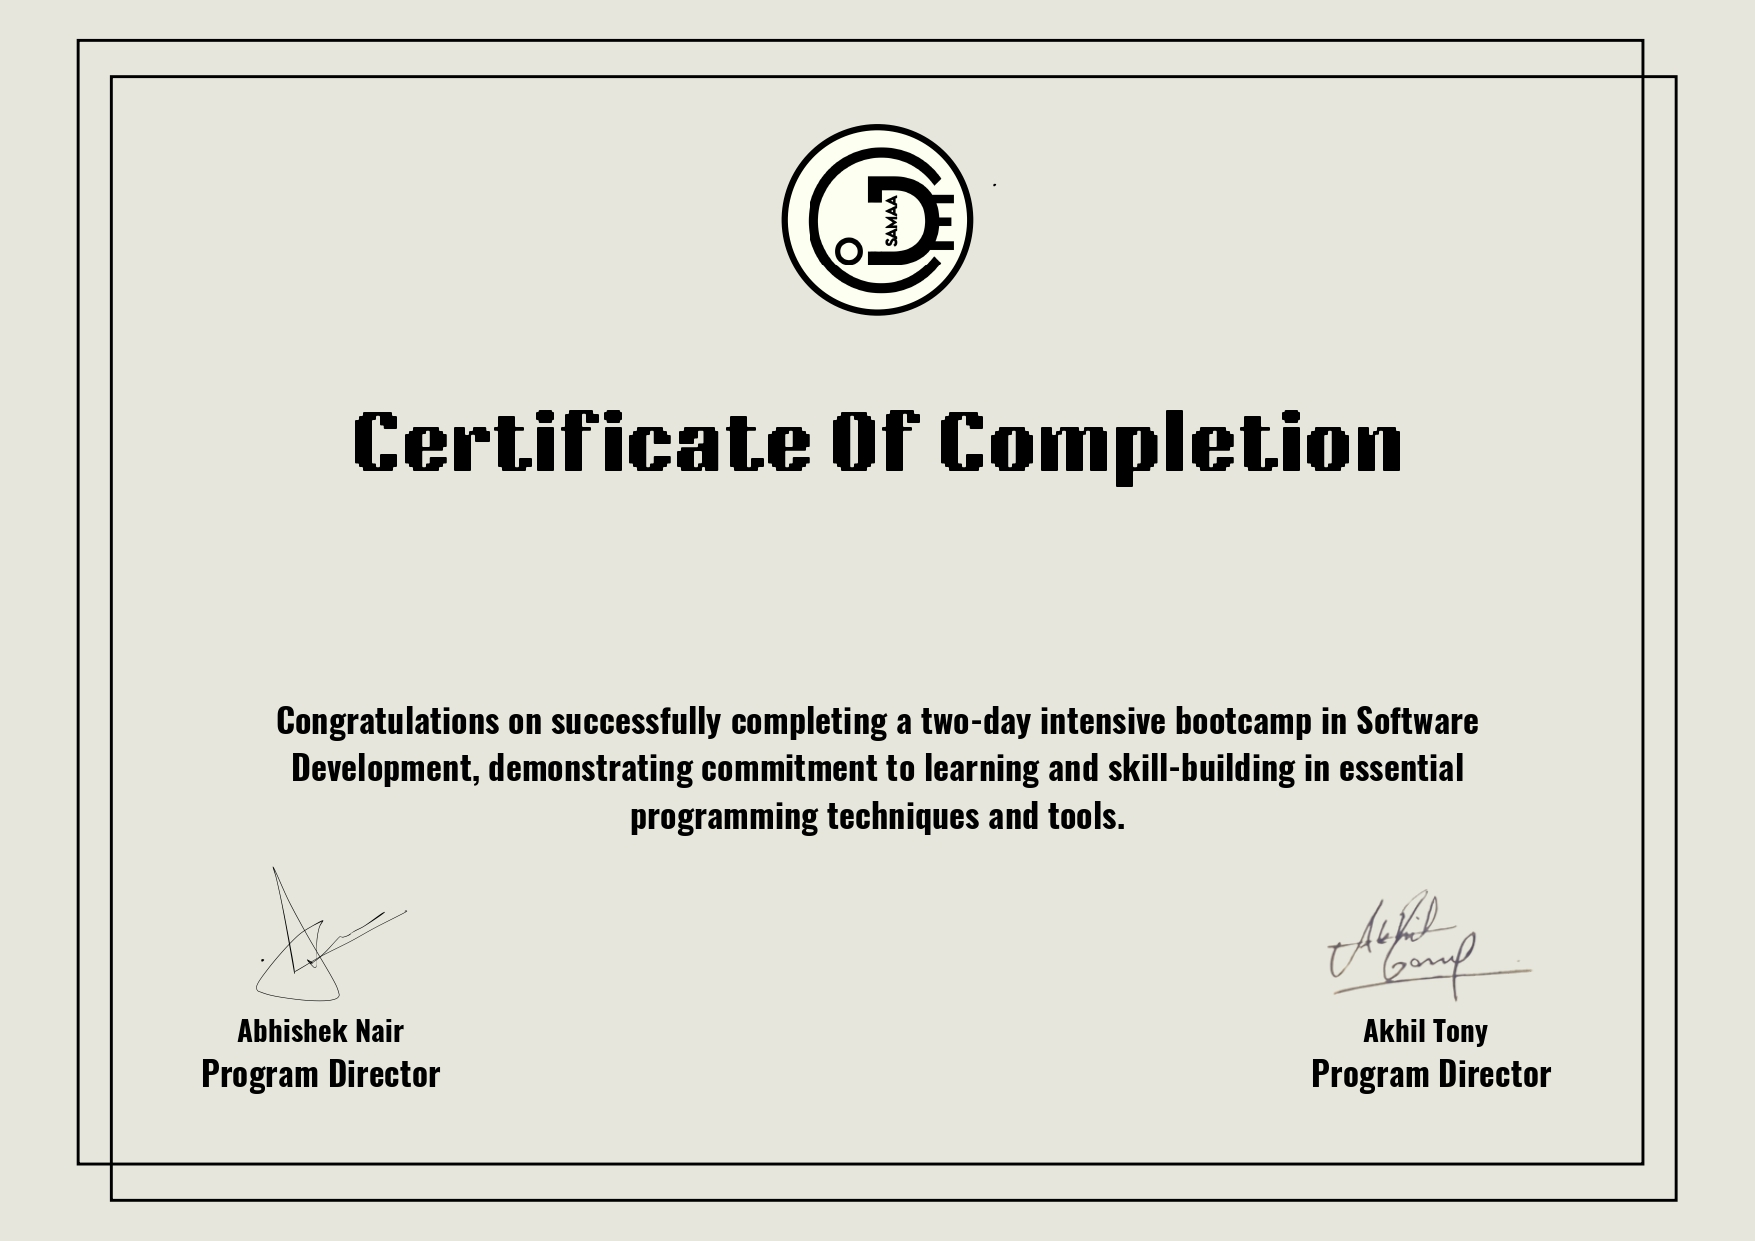
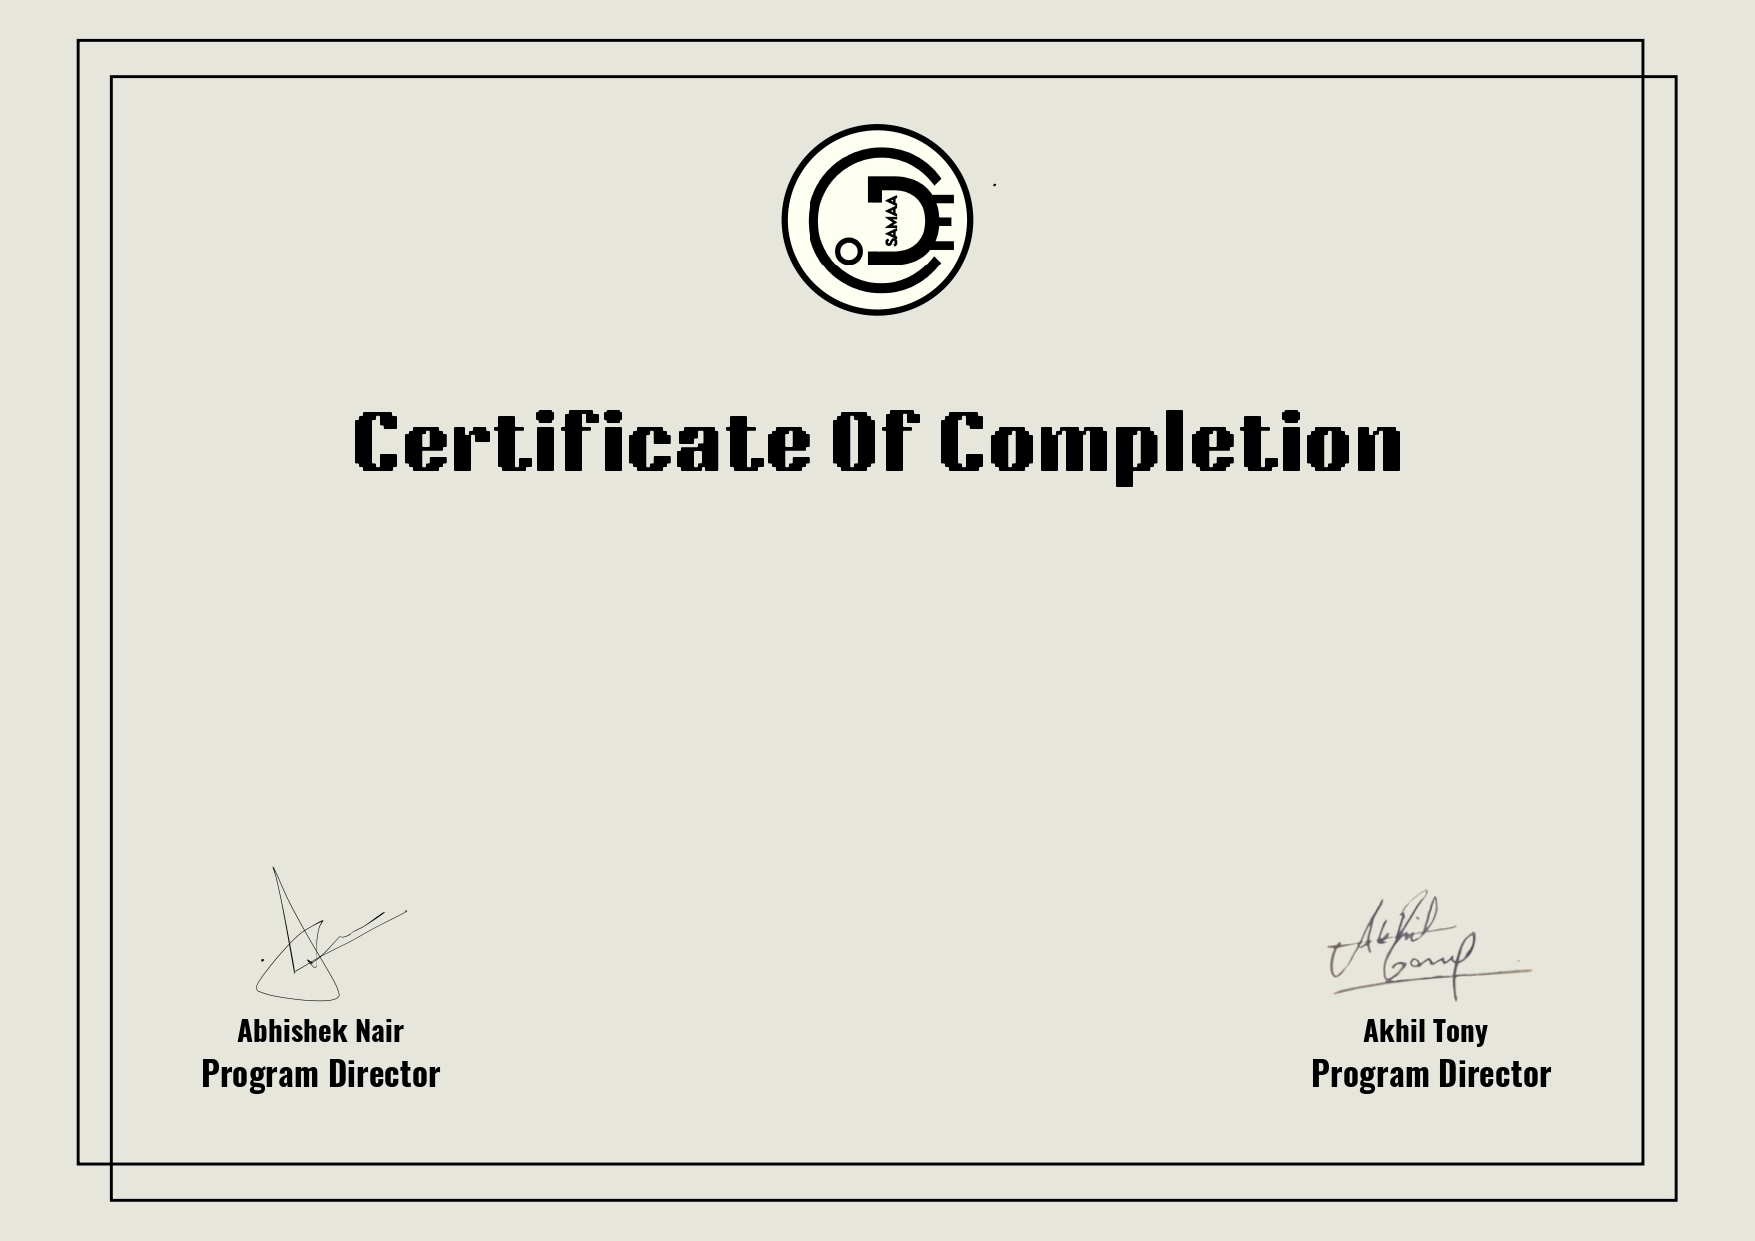
completed the feature of download certificate with username and description set by the admin

Changed region(s): [[0.1538, 0.5512, 0.8308, 0.6737]]

diff --git a/codesamaaj/src/app/download-certificate/page.tsx b/codesamaaj/src/app/download-certificate/page.tsx
@@ -1,15 +1,18 @@
 'use client'
 
-import { useContext, useRef } from "react";
+import { useContext, useEffect, useRef, useState } from "react";
 import { jsPDF } from "jspdf";
 import { Button } from "@/components/ui/button";
 import { Download } from 'lucide-react'
 import userDetailContext from "../context/UserDetailContext";
 import { useToast } from "@/hooks/use-toast"
+import Cookies from 'js-cookie';
 
 const Certificate = () => {
   const nameInputRef = useRef<HTMLInputElement>(null);
   const canvasRef = useRef<HTMLCanvasElement>(null);
+  const [currentUserEmail, setCurrentUserEmail] = useState<string | undefined>(undefined);
+  const [currentUsername, setCurrentUsername] = useState<string>('');
 
   const { toast } = useToast();
 
@@ -17,7 +20,7 @@ const Certificate = () => {
   if( context === undefined ){
     throw new Error("Context not defined correctly");
   }
-  const { name, setName, userEmail, setUserEmail } = context;
+  const { name, setName, userEmail, setUserEmail, canGiveFeedback, setCanGiveFeedback, descriptionCharLimit, setDescriptionCharLimit, certificateDescription, setCertificateDescription } = context;
 
   function capitalizeWords(name: string) {
     return name
@@ -28,9 +31,9 @@ const Certificate = () => {
 
   const handleGeneratePDF = () => {
    
-    let username = name;
+    let username = currentUsername;
     username = capitalizeWords(username);
-    console.log("Name in the state: ", name);
+    console.log("Name in the state: ", currentUsername);
 
     if (!username) {
       toast({
@@ -38,12 +41,12 @@ const Certificate = () => {
       })
       return;
     }
-    if( !userEmail ){
-      toast({
-        title: "Email of the user not found",
-      })
-      return;
-    }
+    // if( !currentUserEmail ){
+    //   toast({
+    //     title: "Email of the user not found",
+    //   })
+    //   return;
+    // }
 
 
     const canvas = canvasRef.current;
@@ -64,8 +67,17 @@ const Certificate = () => {
       ctx.fillStyle = "black";
       ctx.textAlign = "center";
       const nameX = canvas.width / 2;
-      const nameY = canvas.height / 2 + 20;
+      const nameY = canvas.height / 2 + 10;
       ctx.fillText(username, nameX, nameY);
+
+      // Set the font for the description
+      ctx.font = "400 30px Arial";
+      ctx.textAlign = "center";
+
+      // Draw the description below the name
+      const descriptionX = canvas.width / 2;
+      const descriptionY = nameY + 70; 
+      ctx.fillText(certificateDescription, descriptionX, descriptionY);
 
       const pdf = new jsPDF({
         orientation: "landscape",
@@ -77,6 +89,73 @@ const Certificate = () => {
       pdf.save(`${username}_Certificate.pdf`);
     };
   };
+
+  useEffect(() => {
+
+    const fetchAdminData = async () => {
+      try {
+        const response = await fetch("/api/admin-control", {
+          method: "GET",
+          headers: { "Content-Type": "application/json" },
+        });
+
+        if (!response.ok) {
+          throw new Error("Failed to fetch admin data");
+        }
+
+        const data = await response.json();
+
+        console.log(
+          "Value of description state: ",
+          data.data.description
+        );
+
+        // Update state with data from the database
+        setCanGiveFeedback(data.data.canGiveFeedback);
+        setDescriptionCharLimit(String(data.data.descriptionCharLimit));
+        setCertificateDescription(data.data.description);
+      } catch (error) {
+        console.error("Error fetching admin data:", error);
+      }
+    };
+
+    const emailFromCookies = Cookies.get('authToken');
+    console.log("Value of the user email: ", emailFromCookies);
+    if( emailFromCookies ){
+      setCurrentUserEmail(emailFromCookies);
+    }
+
+    fetchAdminData();
+
+    const fetchUserDetails = async () => {
+
+      console.log("Inside fetch user details function");
+      const emailInsideCookie = Cookies.get('authToken');
+
+      try {
+        const response = await fetch('/api/get-user-details', {
+          method: 'POST',
+          headers: {
+            'Content-Type': 'application/json',
+          },
+          body: JSON.stringify({ email: emailInsideCookie }),
+        });
+    
+        const data = await response.json();
+        if (response.ok) {
+          console.log("User Details: ", data.user.fullName);
+          setCurrentUsername(data.user.fullName);
+        } else {
+          console.error("Error: ", data.message);
+        }
+      } catch (error) {
+        console.error("Error fetching user details: ", error);
+      }
+    }
+
+    fetchUserDetails();
+
+  }, []);
 
   return (
 

diff --git a/codesamaaj/src/app/api/login/route.ts b/codesamaaj/src/app/api/login/route.ts
@@ -47,3 +47,41 @@ export async function POST( request: NextRequest, response: NextResponse ){
     }
 
 }
+
+// export async function GET(request: NextRequest) {
+
+//     try {
+//       const requestBody: any = await request.json();
+//         const { email }: { email: string } = requestBody;
+  
+//       // VALIDATING THE DATA
+//       if (!email) {
+//         return NextResponse.json(
+//           { message: "Email is required to fetch user details" },
+//           { status: 400 }
+//         );
+//       }
+  
+//       // FIND THE USER IN THE DATABASE
+//       const userInDB = await User.findOne({ email });
+  
+//       if (userInDB) {
+//         console.log("User details fetched from DB: ", userInDB);
+  
+//         return NextResponse.json(
+//           { user: userInDB },
+//           { status: 200 }
+//         );
+//       }
+  
+//       return NextResponse.json(
+//         { message: "User not found in the database" },
+//         { status: 404 }
+//       );
+//     } catch (error: any) {
+//       return NextResponse.json(
+//         { message: error.message },
+//         { status: 500 }
+//       );
+//     }
+// }

diff --git a/codesamaaj/src/app/api/get-user-details/route.ts b/codesamaaj/src/app/api/get-user-details/route.ts
@@ -1,0 +1,43 @@
+import { connectDatabase } from "@/dbConnection/dbConnection";
+import User from "@/models/users.models";
+import { NextRequest, NextResponse } from 'next/server';
+
+connectDatabase();
+
+export async function POST(request: NextRequest) {
+
+    try {
+      const requestBody: any = await request.json();
+        const { email } = requestBody;
+  
+      // VALIDATING THE DATA
+      if (!email) {
+        return NextResponse.json(
+          { message: "Email is required to fetch user details" },
+          { status: 400 }
+        );
+      }
+  
+      // FIND THE USER IN THE DATABASE
+      const userInDB = await User.findOne({ email });
+  
+      if (userInDB) {
+        console.log("User details fetched from DB: ", userInDB);
+  
+        return NextResponse.json(
+          { user: userInDB },
+          { status: 200 }
+        );
+      }
+  
+      return NextResponse.json(
+        { message: "User not found in the database" },
+        { status: 404 }
+      );
+    } catch (error: any) {
+      return NextResponse.json(
+        { message: error.message },
+        { status: 500 }
+      );
+    }
+}
